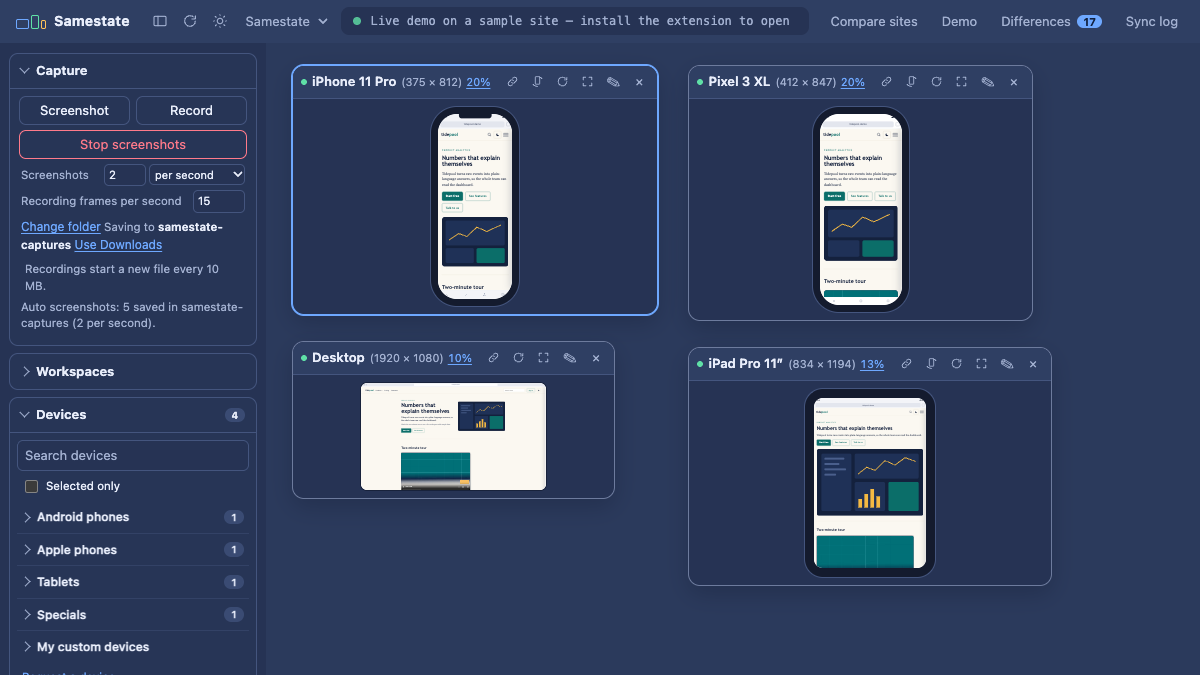
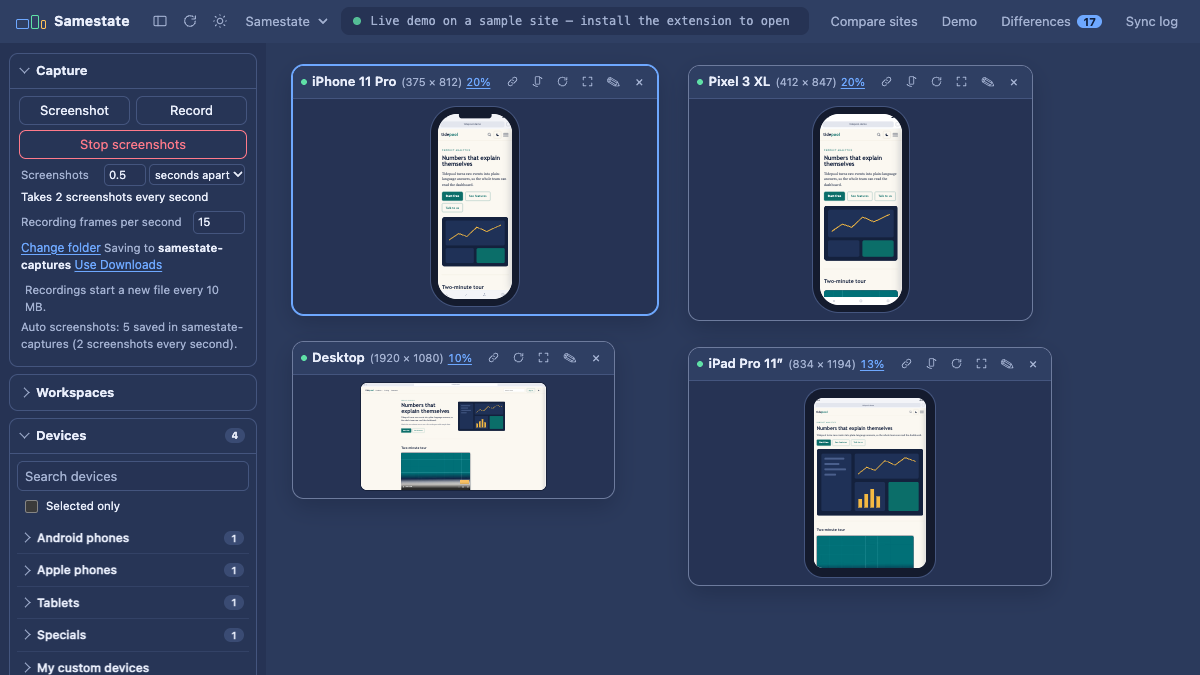
Say the screenshot pace in words under the setting
A line under Screenshots reads "Takes 1 screenshot every 5 seconds" or
"Takes 2 screenshots every second", the same whichever unit is chosen,
and updates as you type. Status messages use the same words. The README
image shows seconds apart.

Changed region(s): [[0.0, 0.2489, 0.2158, 1.0], [0.185, 0.7467, 0.2158, 0.9644]]

diff --git a/docs/capture.js b/docs/capture.js
@@ -11,6 +11,7 @@
   const autoButton = document.querySelector('#auto-shots');
   const shotRateInput = document.querySelector('#shot-rate');
   const shotUnitInput = document.querySelector('#shot-unit');
+  const shotHint = document.querySelector('#shot-hint');
   const recordRateInput = document.querySelector('#record-rate');
   const folderButton = document.querySelector('#capture-folder');
   const folderLabel = document.querySelector('#capture-folder-name');
@@ -31,11 +32,19 @@
   const shotUnit = () => SHOT_UNITS[shotUnitInput.value] ? shotUnitInput.value : 'per-second';
   const shotValue = () => { const u = SHOT_UNITS[shotUnit()]; return clamp(parseFloat(shotRateInput.value), u.min, u.max, u.fallback); };
   const shotInterval = () => shotUnit() === 'apart' ? shotValue() * 1000 : 1000 / shotValue();
-  const shotPace = () => shotUnit() === 'apart' ? `one every ${shotValue()} s` : `${shotValue()} per second`;
+  // The pace in words, the same whichever unit was chosen: "1 screenshot every 5 seconds", "2 screenshots every second".
+  const fmt = n => String(+n.toFixed(2));
+  function shotPace() {
+    const seconds = shotInterval() / 1000;
+    if (Math.abs(seconds - 1) < 0.005) return '1 screenshot every second';
+    return seconds > 1 ? `1 screenshot every ${fmt(seconds)} seconds` : `${fmt(1 / seconds)} screenshots every second`;
+  }
+  const showPace = () => { shotHint.textContent = 'Takes ' + shotPace(); };
   function fitShotInput() {
     const u = SHOT_UNITS[shotUnit()];
     shotRateInput.min = u.min; shotRateInput.max = u.max; shotRateInput.step = shotUnit() === 'apart' ? 'any' : '0.1';
     shotRateInput.title = shotUnit() === 'apart' ? 'Seconds between screenshots (0.1 to 3600)' : 'Screenshots each second (0.1 to 10)';
+    showPace();
   }
   const recordRate = () => Math.round(clamp(parseFloat(recordRateInput.value), 1, 60, 30));
   const remember = (key, input) => {
@@ -45,6 +54,7 @@
   remember('samestate.shotUnit', shotUnitInput);
   remember('samestate.shotRate', shotRateInput);
   fitShotInput();
+  for (const type of ['input', 'change']) shotRateInput.addEventListener(type, showPace);
   // Switching unit keeps the same pace: 2 per second becomes 0.5 seconds apart, 5 seconds apart becomes 0.2 per second.
   let previousUnit = shotUnit();
   shotUnitInput.addEventListener('change', () => {
@@ -372,7 +382,7 @@
       busy = false;
       updateButtons();
     }
-    showStatus(`Taking screenshots, ${shotPace()}…`);
+    showStatus(`Taking ${shotPace()}…`);
     let failure = null;
     try {
       while (!run.stopping) {

diff --git a/extension/capture.js b/extension/capture.js
@@ -11,6 +11,7 @@
   const autoButton = document.querySelector('#auto-shots');
   const shotRateInput = document.querySelector('#shot-rate');
   const shotUnitInput = document.querySelector('#shot-unit');
+  const shotHint = document.querySelector('#shot-hint');
   const recordRateInput = document.querySelector('#record-rate');
   const folderButton = document.querySelector('#capture-folder');
   const folderLabel = document.querySelector('#capture-folder-name');
@@ -31,11 +32,19 @@
   const shotUnit = () => SHOT_UNITS[shotUnitInput.value] ? shotUnitInput.value : 'per-second';
   const shotValue = () => { const u = SHOT_UNITS[shotUnit()]; return clamp(parseFloat(shotRateInput.value), u.min, u.max, u.fallback); };
   const shotInterval = () => shotUnit() === 'apart' ? shotValue() * 1000 : 1000 / shotValue();
-  const shotPace = () => shotUnit() === 'apart' ? `one every ${shotValue()} s` : `${shotValue()} per second`;
+  // The pace in words, the same whichever unit was chosen: "1 screenshot every 5 seconds", "2 screenshots every second".
+  const fmt = n => String(+n.toFixed(2));
+  function shotPace() {
+    const seconds = shotInterval() / 1000;
+    if (Math.abs(seconds - 1) < 0.005) return '1 screenshot every second';
+    return seconds > 1 ? `1 screenshot every ${fmt(seconds)} seconds` : `${fmt(1 / seconds)} screenshots every second`;
+  }
+  const showPace = () => { shotHint.textContent = 'Takes ' + shotPace(); };
   function fitShotInput() {
     const u = SHOT_UNITS[shotUnit()];
     shotRateInput.min = u.min; shotRateInput.max = u.max; shotRateInput.step = shotUnit() === 'apart' ? 'any' : '0.1';
     shotRateInput.title = shotUnit() === 'apart' ? 'Seconds between screenshots (0.1 to 3600)' : 'Screenshots each second (0.1 to 10)';
+    showPace();
   }
   const recordRate = () => Math.round(clamp(parseFloat(recordRateInput.value), 1, 60, 30));
   const remember = (key, input) => {
@@ -45,6 +54,7 @@
   remember('samestate.shotUnit', shotUnitInput);
   remember('samestate.shotRate', shotRateInput);
   fitShotInput();
+  for (const type of ['input', 'change']) shotRateInput.addEventListener(type, showPace);
   // Switching unit keeps the same pace: 2 per second becomes 0.5 seconds apart, 5 seconds apart becomes 0.2 per second.
   let previousUnit = shotUnit();
   shotUnitInput.addEventListener('change', () => {
@@ -372,7 +382,7 @@
       busy = false;
       updateButtons();
     }
-    showStatus(`Taking screenshots, ${shotPace()}…`);
+    showStatus(`Taking ${shotPace()}…`);
     let failure = null;
     try {
       while (!run.stopping) {

diff --git a/docs/index.html b/docs/index.html
@@ -49,6 +49,7 @@
         </div>
         <div class="capture-rates">
           <label>Screenshots <span class="rate-pair"><input type="number" id="shot-rate" min="0.1" max="10" step="0.1" value="1" aria-label="Screenshot pace"><select id="shot-unit" aria-label="Screenshot pace unit"><option value="per-second">per second</option><option value="apart">seconds apart</option></select></span></label>
+          <p class="shot-hint" id="shot-hint" aria-live="polite">Takes 1 screenshot every second</p>
           <label title="Frames per second in recordings; lower rates make smaller files">Recording frames per second <input type="number" id="record-rate" min="1" max="60" step="1" value="30"></label>
         </div>
         <div class="capture-folder"><button type="button" id="capture-folder" class="link">Save to folder…</button> <span class="muted">Saving to</span> <b id="capture-folder-name">Downloads</b> <button type="button" id="capture-folder-clear" class="link" hidden>Use Downloads</button></div>

diff --git a/extension/app.html b/extension/app.html
@@ -44,6 +44,7 @@
         </div>
         <div class="capture-rates">
           <label>Screenshots <span class="rate-pair"><input type="number" id="shot-rate" min="0.1" max="10" step="0.1" value="1" aria-label="Screenshot pace"><select id="shot-unit" aria-label="Screenshot pace unit"><option value="per-second">per second</option><option value="apart">seconds apart</option></select></span></label>
+          <p class="shot-hint" id="shot-hint" aria-live="polite">Takes 1 screenshot every second</p>
           <label title="Frames per second in recordings; lower rates make smaller files">Recording frames per second <input type="number" id="record-rate" min="1" max="60" step="1" value="30"></label>
         </div>
         <div class="capture-folder"><button type="button" id="capture-folder" class="link">Save to folder…</button> <span class="muted">Saving to</span> <b id="capture-folder-name">Downloads</b> <button type="button" id="capture-folder-clear" class="link" hidden>Use Downloads</button></div>

diff --git a/docs/app.css b/docs/app.css
@@ -396,5 +396,6 @@ button.link{color:var(--acc);text-decoration:underline;text-underline-offset:2px
 .rate-pair{display:flex;gap:3px;align-items:center;min-width:0}
 .capture-rates .rate-pair input{width:42px}
 .rate-pair select{width:96px;padding:2px 1px;border:1px solid var(--line);border-radius:5px;background:var(--side);color:var(--text);font-size:11px}
+.shot-hint{margin:-1px 0 1px;color:var(--text);font-size:11.5px}
 .capture-folder{padding:0 4px 4px;font-size:11.5px;overflow-wrap:anywhere}
 .capture-folder b{font-weight:600}

diff --git a/extension/app.css b/extension/app.css
@@ -396,5 +396,6 @@ button.link{color:var(--acc);text-decoration:underline;text-underline-offset:2px
 .rate-pair{display:flex;gap:3px;align-items:center;min-width:0}
 .capture-rates .rate-pair input{width:42px}
 .rate-pair select{width:96px;padding:2px 1px;border:1px solid var(--line);border-radius:5px;background:var(--side);color:var(--text);font-size:11px}
+.shot-hint{margin:-1px 0 1px;color:var(--text);font-size:11.5px}
 .capture-folder{padding:0 4px 4px;font-size:11.5px;overflow-wrap:anywhere}
 .capture-folder b{font-weight:600}

diff --git a/changelogs/CHANGELOG-screenshot-pace.md b/changelogs/CHANGELOG-screenshot-pace.md
@@ -2,7 +2,8 @@
 
 - **Screenshots** in the Capture drawer now has a unit: **per second** (0.1–10) or **seconds apart** (0.1–3600). "One every 5 seconds" is `5` **seconds apart** instead of `0.2` per second, and slower paces than one every 10 seconds are possible
 - Switching unit keeps the pace: 2 per second becomes 0.5 seconds apart, 5 seconds apart becomes 0.2 per second; the box's limits follow the unit
-- The unit is remembered (`samestate.shotUnit`) with the value; status messages say "2 per second" or "one every 5 s"
+- A line under the pace says what it means in words, the same whichever unit is chosen, and updates as you type: "Takes 1 screenshot every 5 seconds", "Takes 2 screenshots every second". Status messages use the same words
+- The unit is remembered (`samestate.shotUnit`) with the value
 - `docs/media/screenshot-capture.png`: new README image of the Capture drawer while Auto screenshots saves into a folder, with four device previews
 - `tools/readme-media.mjs`: records that image too (tab sharing accepted by `--auto-accept-this-tab-capture`, the folder is the browser's private storage named `samestate-captures`)
 - README: **Capture the device wall** describes the unit and shows the image; smoke test checks the unit menu exists
@@ -16,18 +17,19 @@ A screenshot every few seconds is now set directly in seconds. The README shows 
 
 ## 1. Pace Unit
 **Files:** `extension/capture.js`, `extension/app.html`, `extension/app.css` (and `docs/` copies), `tests/smoke.mjs`
-**What:** `#shot-unit` next to `#shot-rate`. `shotInterval()` is `1000 / value` per second or `value * 1000` seconds apart; `shotPace()` words it for messages. Changing the unit converts the value with `1 / value`, clamps it to the new unit's range and updates the box's `min`, `max`, `step` and title.
+**What:** `#shot-unit` next to `#shot-rate`. `shotInterval()` is `1000 / value` per second or `value * 1000` seconds apart; `shotPace()` words it from the interval ("1 screenshot every 5 seconds" above one second, "2 screenshots every second" below), for `#shot-hint` and the status messages; the hint updates on `input` and `change`. Changing the unit converts the value with `1 / value`, clamps it to the new unit's range and updates the box's `min`, `max`, `step` and title.
 **Impact:** Both ways of thinking about the pace work without arithmetic.
 
 ## 2. README Image
 **Files:** `tools/readme-media.mjs`, `docs/media/screenshot-capture.png`, `README.md`
-**What:** A fourth capture at 1200×675 with the sidebar open: four devices (iPhone, Pixel, iPad, Desktop) so the wall fits, the zoom lowered until it does, and Auto screenshots running at 2 per second for about 2.5 s before the screenshot.
+**What:** A fourth capture at 1200×675 with the sidebar open: four devices (iPhone, Pixel, iPad, Desktop) so the wall fits, the zoom lowered until it does, and Auto screenshots running at 0.5 seconds apart for about 2.5 s before the screenshot.
 **Impact:** The README shows the capture controls in use.
 
 ---
 
 ## Testing
 - Headless Chrome, web demo: 2 per second switched to 0.5 seconds apart (max 3600); 5 seconds apart switched to 0.2 per second (max 10); the unit and value were saved
+- The pace line for 5, 1, 0.5, 90 and 3 seconds apart and for 1, 2, 0.2 and 0.25 per second: "1 screenshot every 5 seconds", "…every second", "2 screenshots every second", "1 screenshot every 90 seconds", "…every 3 seconds", "…every second", "2 screenshots every second", "1 screenshot every 5 seconds", "…every 4 seconds"; a status while running: "1 screenshot every 1.5 seconds"
 - "1.5 seconds apart" for about 6 s: 4 screenshots, 1.42, 1.48 and 1.52 s apart; status "one every 1.5 s"
 - The drawer checked in the new image: the unit menu fits next to the box, in line with the frame-rate box
 - `node tests/smoke.mjs`: 37/37 checks passed, 0 page errors (one earlier run failed once at Page steps, "Step 2 menu open: false", and passed on rerun; this change does not touch page steps)

diff --git a/README.md b/README.md
@@ -187,13 +187,13 @@ For your own design, choose **Custom CSS…**, paste the CSS export, and click *
 
 With a preview open in desktop Chrome, click **Screenshot**, **Record** or **Auto screenshots**, then share the current Samestate tab in Chrome’s picker. **Screenshot** saves one PNG. **Record** starts a silent WebM video, and **Stop** saves it. You can take screenshots while recording.
 
-- **Auto screenshots** saves a PNG of the device wall again and again until you press **Stop screenshots**. Set the pace under **Screenshots** as **per second** (0.1 to 10) or **seconds apart** (0.1 to 3600, so 5 is one every 5 seconds); switching between them keeps the same pace. The files are numbered in one series: `samestate-<time>-shot-0001.png`, `-0002.png`…
+- **Auto screenshots** saves a PNG of the device wall again and again until you press **Stop screenshots**. Set the pace under **Screenshots** as **per second** (0.1 to 10) or **seconds apart** (0.1 to 3600, so 5 is one every 5 seconds); switching between them keeps the same pace. The line below says what that means, such as "Takes 1 screenshot every 5 seconds" or "Takes 2 screenshots every second". The files are numbered in one series: `samestate-<time>-shot-0001.png`, `-0002.png`…
 - **Recording frames per second** (1 to 60, default 30) sets the video's frame rate. Lower rates also lower the bitrate, so files are smaller.
 - A recording starts a new file every 10 MB, with no pause: `samestate-<time>-part-01.webm`, `part-02.webm`… Each part plays on its own.
 - **Save to folder…** picks a folder, and every screenshot and recording part is written there as it is made. Chrome remembers the folder and asks again for permission after a restart; **Use Downloads** goes back to downloads. Without a folder, each file starts a download.
 - The pace, its unit and the frame rate are remembered in this browser.
 
-<p align="center"><img src="docs/media/screenshot-capture.png" alt="The Capture drawer while Auto screenshots saves two screenshots per second into a folder named samestate-captures, next to four device previews" width="800"></p>
+<p align="center"><img src="docs/media/screenshot-capture.png" alt="The Capture drawer set to one screenshot every 0.5 seconds, reading Takes 2 screenshots every second, while Auto screenshots saves into a folder named samestate-captures, next to four device previews" width="800"></p>
 
 Capture follows the visible part of the wall as you scroll or zoom. In **Compare sites**, the crop includes the visible site columns together. Samestate saves the files locally.
 
